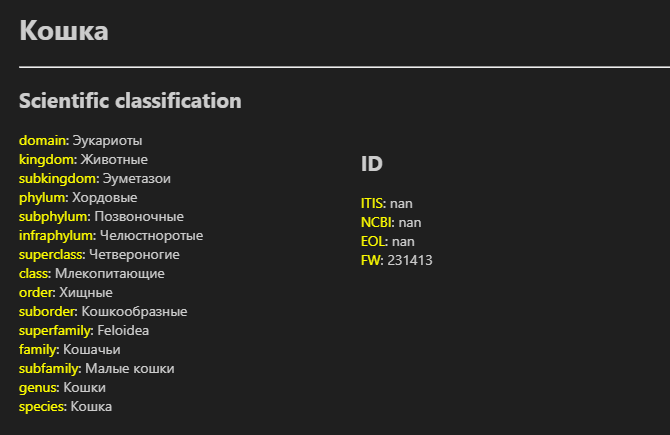
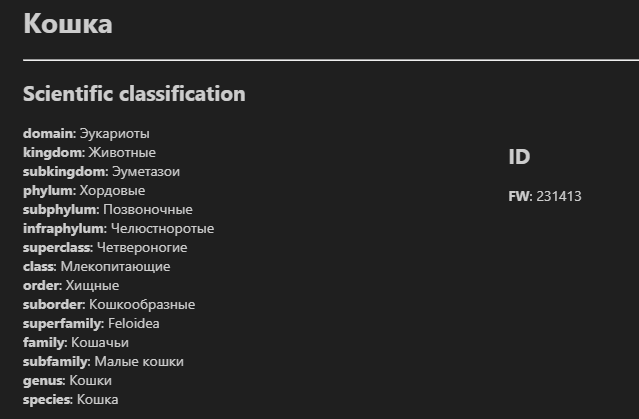
update readme

diff --git a/README.md b/README.md
@@ -37,51 +37,7 @@ cat = animal.Animal('кошка', 'ru')
 cat.display()
 ```
 
-<!DOCTYPE html>
-<html lang="en">
-<head>
-    <meta charset="UTF-8">
-    <meta name="viewport" content="width=device-width, initial-scale=1.0">
-    <title>Animal Information</title>
-    <style>
-        .container {
-            display: flex;
-            justify-content: space-between;
-        }
-        .left, .right {
-            width: 48%;
-        }
-    </style>
-</head>
-<body>
-    <h1>Кошка</h1>
-    <hr>
-    <h2>Scientific classification</h2>
-    <div class="container">
-        <div class="left">
-            <b>domain</b>: Эукариоты<br>
-            <b>kingdom</b>: Животные<br>
-            <b>subkingdom</b>: Эуметазои<br>
-            <b>phylum</b>: Хордовые<br>
-            <b>subphylum</b>: Позвоночные<br>
-            <b>infraphylum</b>: Челюстноротые<br>
-            <b>superclass</b>: Четвероногие<br>
-            <b>class</b>: Млекопитающие<br>
-            <b>order</b>: Хищные<br>
-            <b>suborder</b>: Кошкообразные<br>
-            <b>superfamily</b>: Feloidea<br>
-            <b>family</b>: Кошачьи<br>
-            <b>subfamily</b>: Малые кошки<br>
-            <b>genus</b>: Кошки<br>
-            <b>species</b>: Кошка<br>
-        </div>
-        <div class="right">
-            <h2>ID</h2>
-            <b>FW</b>: 231413
-        </div>
-    </div>
-</body>
-</html>
+<div align="center"><img src="img/cat-display.png" width=500px></div>
 
 \
 ZooPy has several pre-trained models
